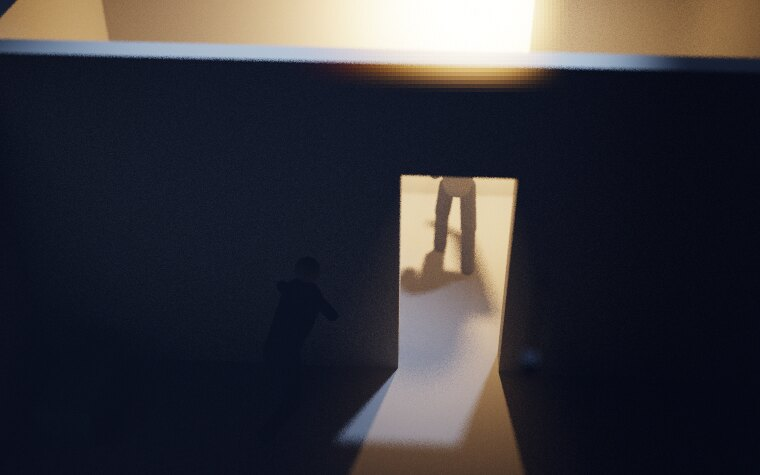
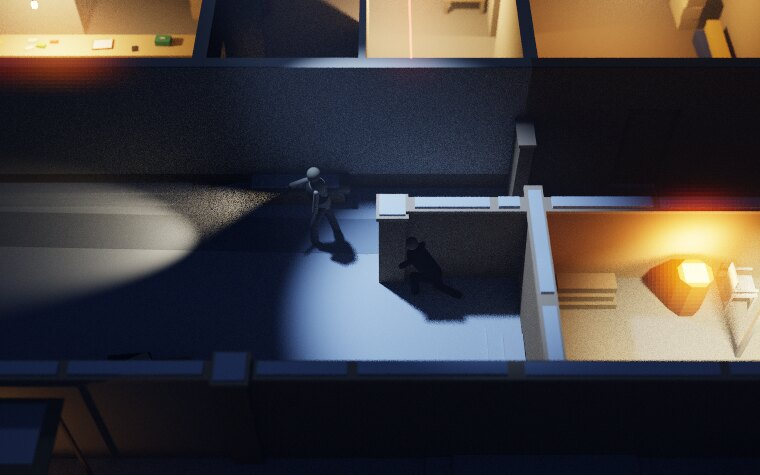
The ledger's menu picture is its whistle in the snow lane
The picture was the dark store and the lit hall's doorway, which every
quiet level can show. The new one is the beat only this level has: the
court's man stopped where the sound was, his light down the trodden
lane, the player on a knee behind the wall's end, the court's fire.

diff --git a/tools/menu-art.ts b/tools/menu-art.ts
@@ -76,7 +76,7 @@ const PIN: Record<string, Pin> = {
   'quiet-relay-two': { at: [16.77, 0, 15.15], ops: [[15.3, 0, 15.9]], aim: [16.77, 14.5], look: [17.6, 1, 15.6], yaw: -78, pitch: 24, dist: 8 },   // at the lock of the hut's door, under its lamp
   'solo-night': { lead: 0.2, flip: true },
   'vault-quiet': { at: [27.55, 0, 12.1], aim: [24.4, 14.6], look: [26, 1, 13], yaw: -35, pitch: 50, dist: 9.5, rim: 5 },   // the court's beam at the shin, between him and the back door
-  'tut-quiet': { at: [26.1, 0, 14.15], aim: [24.0, 12.7], guards: [[24.0, 12.7, 20.5, 12.7]], look: [25.0, 1, 13.4], pitch: 36, dist: 8.5, lamps: 'own', keyK: 0.4, skyK: 0.7, lampK: 1.5, haze: 1.0, tint: [0.035, 0.05, 0.11], tintK: 0.6 },   // the tutorial's quiet house: low in the store's dark corner, the lit hall and a man's back through the doorway (the deep night of the quiet missions)
+  'tut-quiet': { at: [23.9, 0, 19.05], aim: [22.5, 18], guards: [[22.0, 17.8, 20.5, 17.8]], look: [23.0, 1, 18.6], yaw: 0, pitch: 52, dist: 16, lamps: 'all', keyK: 0.5, keyAz: 249, keyEl: 21, skyK: 0.8, lampK: 1.3, haze: 0.6, tint: [0.035, 0.05, 0.11], tintK: 0.4 },   // the tutorial's quiet shop on its snowing night, the whistle's beat: the court's man stopped where the sound was, his light down the trodden lane, and the player on a knee behind the wall's end at his back, the court's fire beyond
   'quiet-yard-alone': { at: [21.2, 0, 16.9], aim: [27, 13.5], guards: [[27.5, 12.6, 20, 13]], pitch: 34, rim: 7 },   // the lamp's pool, a man in it, from the dark corner
   'quiet-yard-two': { at: [17.8, 0, 19.4], ops: [[19.2, 0, 19.7]], aim: [20, 14], guards: [[20.5, 13.8, 12, 13.8]], pitch: 28 },
   'lights-out-two': { at: [19, 0, 18.5], ops: [[18, 0, 19.3]], aim: [21, 16.2], ajar: { front: 0.9 }, pitch: 40 },   // the hall's four beams through its open door
